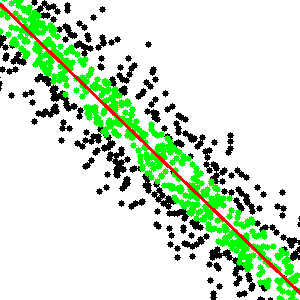
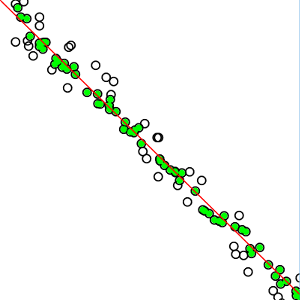
Changed params

diff --git a/examples/LineFittingSample.cpp b/examples/LineFittingSample.cpp
@@ -62,7 +62,7 @@ int main(int argc, char * argv[])
 	}
 
 	GRANSAC::RANSAC<Line2DModel, 2> Estimator;
-	Estimator.Initialize(20, 2); // Threshold, iterations
+	Estimator.Initialize(20, 100); // Threshold, iterations
 	int start = cv::getTickCount();
 	Estimator.Estimate(CandPoints);
 	int end = cv::getTickCount();
